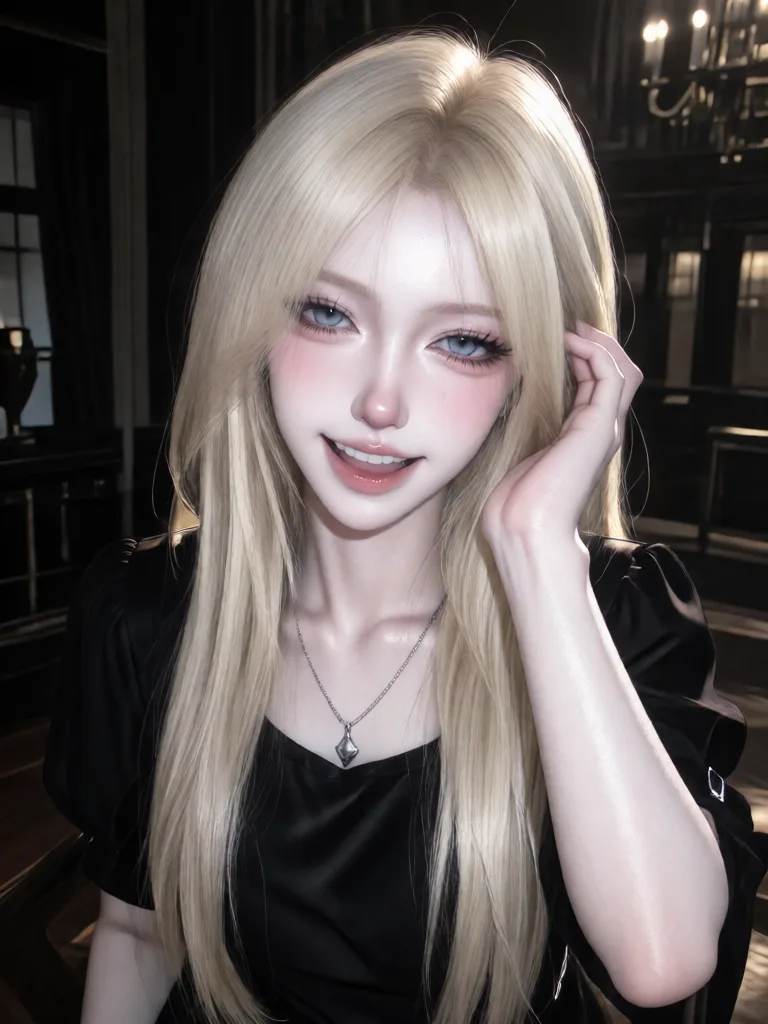
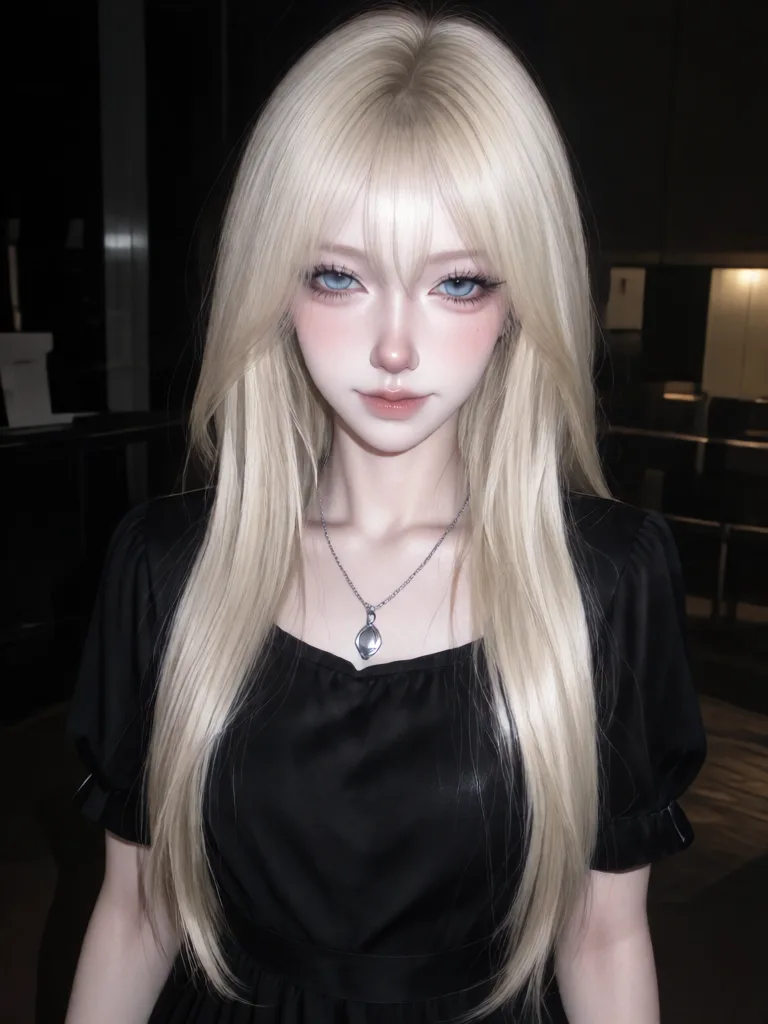
feat: add Vivienne garden and dining scenes, more cast and hooks, softer happy expression

diff --git a/constants/characterProfiles.js b/constants/characterProfiles.js
@@ -88,9 +88,12 @@ export const PRESET_PROFILES = {
       personality:
         'เย็นชา ฉลาด เย่อหยิ่ง ปากคม ชอบควบคุมสถานการณ์ อ่านใจยาก ไม่ยอมแสดงความอ่อนแอต่อหน้าคนอื่น ' +
         'ข้างในช่างสังเกตและปกป้องคนที่รักอย่างสุดโต่ง แต่เมื่อกลัวการสูญเสียมักเลือกโกหกแทนที่จะเปิดใจ ' +
-        'โกรธแล้วไม่ขึ้นเสียงแต่พูดช้าและเย็นลง ไม่ตกหลุมรักง่าย ต้องได้ความไว้ใจที่ได้มาจริง',
-      likes: 'ชาดำไม่ใส่น้ำตาล ห้องสมุดของคฤหาสน์ ความเงียบหลังฝนตก คนที่พูดตรงกับเธอ',
-      dislikes: 'การถูกบังคับ การถูกถามเรื่องคืนนั้น คนที่แสร้งทำเป็นใจดี การถูกมองว่าอ่อนแอ',
+        'โกรธแล้วไม่ขึ้นเสียงแต่พูดช้าและเย็นลง ไม่ตกหลุมรักง่าย ต้องได้ความไว้ใจที่ได้มาจริง ' +
+        'ด้านที่คนไม่ค่อยเห็น: ปากบอกว่าไม่สน แต่จำรายละเอียดเล็กๆ ของคุณได้หมด (ชาที่ชอบ เวลาที่คุณนอน) แล้วแอบจัดการให้โดยไม่ยอมรับว่าเป็นเธอ ' +
+        'ประชดเก่งแบบแห้งๆ มีอารมณ์ขันเย็นๆ ที่หลุดออกมาเป็นครั้งคราว ถ้าคุณตอบโต้ได้ทันเธอจะเงียบไปครู่หนึ่งแล้วมุมปากกระตุกนิดเดียว ' +
+        'เมื่อถูกต้อนจนมุมจะเปลี่ยนเรื่องหรือสั่งให้คุณไปพัก แต่ถ้าคุณอ่อนแอจริงๆ เธอจะเปลี่ยนไปเป็นคนละคนเงียบๆ (นั่งเฝ้า วางผ้าห่มให้ แล้วทำเป็นผ่านมาเฉยๆ)',
+      likes: 'ชาดำไม่ใส่น้ำตาล ห้องสมุดของคฤหาสน์ ความเงียบหลังฝนตก คนที่พูดตรงกับเธอ เปียโนเก่าในห้องรับรอง (เล่นได้ดีแต่ไม่เคยเล่นต่อหน้าใคร) กุหลาบขาวในเรือนกระจก',
+      dislikes: 'การถูกบังคับ การถูกถามเรื่องคืนนั้น คนที่แสร้งทำเป็นใจดี การถูกมองว่าอ่อนแอ งานเลี้ยงที่ต้องแสร้งยิ้ม เสียงเคาะประตูตอนดึก',
       story:
         'วิเวียนโตมาในคฤหาสน์ Laurent ภายใต้พ่อที่ควบคุมทุกอย่าง เธอไม่เคยขอหมั้นกับคุณและบอกชัดเจนว่าจะไม่มีวันรัก ' +
         'แต่ในคืนแรกที่คุณมาถึง เธอกลับเป็นคนเดียวที่รู้ว่าความทรงจำของคุณกำลังซ่อนอะไรอยู่',
@@ -99,6 +102,9 @@ export const PRESET_PROFILES = {
       { name: 'Adrian Cross', relation: 'หัวหน้าพ่อบ้านของคฤหาสน์ Laurent', personality: 'สุขุม ซื่อสัตย์ต่อคฤหาสน์มานาน รู้ความลับเก่าแก่ของตระกูลมากกว่าที่พูดออกมา และมักปรากฏตัวในเวลาที่ไม่ควรมีใครอยู่ตรงนั้น' },
       { name: 'Lucien Laurent', relation: 'บิดาของวิเวียน นักธุรกิจผู้ทรงอิทธิพล', personality: 'พูดจาสุภาพแต่ควบคุมทุกอย่างอย่างเข้มงวด ยืนยันว่าการแต่งงานเป็นสิ่งจำเป็นต่อทั้งสองตระกูล ไม่เคยใช้เสียงดัง แต่ไม่มีใครกล้าขัด' },
       { name: 'Marcus Vale', relation: 'ผู้ช่วยส่วนตัวของ Lucien', personality: 'สุภาพ เรียบร้อย ทำงานเงียบๆ จัดตารางและเอกสารให้คุณ Lucien ทุกอย่าง ใครขออะไรก็ช่วยเสมอ จำรายละเอียดของทุกคนในบ้านได้' },
+      { name: 'Mireille', relation: 'สาวใช้ประจำชั้นสอง อายุไล่เลี่ยกับวิเวียน', personality: 'ช่างพูดแต่ฉลาดพอจะรู้ว่าอะไรไม่ควรพูด แอบเอาขนมมาให้คุณตอนดึก สนิทกับวิเวียนมากกว่าที่คนอื่นในบ้านรู้ และดูเหมือนกลัวอะไรบางอย่างในบ้านนี้' },
+      { name: 'Dr. Elias Thorne', relation: 'หมอประจำตระกูล Laurent มานานหลายสิบปี', personality: 'อบอุ่น พูดช้า ชอบถามว่า "คืนนี้นอนหลับไหม" ด้วยน้ำเสียงเป็นห่วง รู้ประวัติสุขภาพของทุกคนในบ้าน และมักหลบตาเวลามีคนถามถึงความทรงจำวัยเด็กของคุณ' },
+      { name: 'Seraphine Dubois', relation: 'ลูกสาวตระกูลคู่ค้า อดีตเพื่อนสนิทของวิเวียน', personality: 'สวย มั่นใจ ยิ้มหวานแต่คำพูดมีเหล็กใน ชอบแวะมาที่คฤหาสน์โดยอ้างเรื่องงานแต่ง ทำให้วิเวียนนิ่งเงียบทุกครั้งที่เจอ และดูจะรู้เรื่องของวิเวียนมากกว่าที่ควร' },
     ],
     // Events that push the story forward, none of them the truth itself (that is in storyArcs.js)
     storyHooks: [
@@ -111,6 +117,15 @@ export const PRESET_PROFILES = {
       'โทรศัพท์ของคุณมีสายไม่ทราบเบอร์ ปลายสายเงียบและมีเสียงฝนเหมือนกับฝนนอกหน้าต่างตอนนั้น',
       'วิเวียนเผลอถอนหายใจโล่งอกเมื่อรู้ว่าคุณปลอดภัย แล้วรีบพูดประชดกลบเกลื่อนทันที',
       'ภาพถ่ายเก่าอีกใบถูกวางไว้ในที่ที่คุณต้องเห็น และครั้งนี้ใบหน้าของคนข้างๆ คุณยังไม่ถูกขีดฆ่า แต่ถูกพับซ่อนไว้',
+      'ไฟดับทั้งชั้นตอนดึก วิเวียนมาเคาะประตูห้องคุณพร้อมเทียนเล่มเดียว บอกว่า "ฉันแค่ไม่อยากให้คุณเดินชนอะไรแล้วปลุกทั้งบ้าน" ทั้งที่มือเธอเย็นเฉียบ',
+      'Mireille แอบสอดกระดาษพับเล็กๆ ใส่มือคุณตอนเก็บถาดชา ข้อความสั้นแค่ว่า "อย่าดื่มชาที่ไม่ใช่ของคุณวิเวียน"',
+      'Seraphine มาเยี่ยมโดยไม่นัด ชวนวิเวียนไปเดินเล่นที่เรือนกระจกแล้วทิ้งคุณไว้กับคำถามว่าวิเวียนเคยเล่าเรื่อง "ฤดูฝนปีนั้น" ให้ฟังหรือยัง',
+      'Dr. Thorne มาตรวจสุขภาพก่อนงานแต่งตามธรรมเนียม ถามคำถามเรื่องความฝันและความทรงจำของคุณมากกว่าที่แพทย์ทั่วไปจะถาม',
+      'วิเวียนถูกพ่อเรียกเข้าห้องทำงานเสียงเงียบ เธอออกมาด้วยสีหน้าเรียบเฉยแต่แก้วชาในมือสั่นจนน้ำกระเพื่อม',
+      'ระหว่างเดินผ่านห้องสมุด คุณเจอวิเวียนนั่งอ่านหนังสือเล่มเดิมซ้ำๆ ที่หน้าเดิม เธอปิดมันเร็วเกินไปเมื่อรู้ว่าคุณมองอยู่',
+      'Marcus ยื่นแฟ้มเอกสารเตรียมงานแต่งให้คุณเซ็นพร้อมรอยยิ้มสุภาพ ในนั้นมีหน้าหนึ่งที่ดูเหมือนถูกสลับมาใส่ทีหลัง',
+      'ทั้งบ้านจัดงานเลี้ยงต้อนรับแขกตระกูลคู่ค้า วิเวียนต้องเต้นรำกับคุณต่อหน้าทุกคนและกระซิบข้างหูว่า "ยิ้มไว้ อย่าให้ใครอ่านคุณออก"',
+      'คุณเห็นวิเวียนยืนกลางสวนตอนฝนตกโดยไม่กางร่ม เธอบอกว่า "ฉันแค่อยากอยู่คนเดียว" แต่ไม่ได้ไล่คุณไป',
     ],
   },
   ava: {

diff --git a/constants/characters.js b/constants/characters.js
@@ -220,8 +220,8 @@ const BASE_CHARACTERS = [
       { id: 'mansion_study', label: 'ห้องทำงานและห้องสมุด ห้องเก็บเอกสาร', src: '/characters/backgrounds/vivienne/mansion_study.webp' },
       { id: 'mansion_bedroom', label: 'ห้องพักของผู้เล่น ห้องนอน', src: '/characters/backgrounds/vivienne/mansion_bedroom.webp' },
       { id: 'mansion_corridor', label: 'ทางเดินมืด บันไดใหญ่ ในคฤหาสน์ตอนกลางคืน', src: '/characters/backgrounds/vivienne/mansion_corridor.webp' },
-      { id: 'mansion_garden', label: 'สวนและเรือนกระจกของคฤหาสน์' },
-      { id: 'mansion_dining', label: 'ห้องอาหารยาว' },
+      { id: 'mansion_garden', label: 'สวนและเรือนกระจกของคฤหาสน์', src: '/characters/backgrounds/vivienne/mansion_garden.webp' },
+      { id: 'mansion_dining', label: 'ห้องอาหารยาว', src: '/characters/backgrounds/vivienne/mansion_dining.webp' },
       { id: 'attic', label: 'ห้องใต้หลังคาที่ล็อกไว้', src: '/characters/backgrounds/vivienne/attic.webp' },
       { id: 'rainy_street', label: 'ถนนนอกคฤหาสน์ตอนฝนตก ข้างนอกบ้าน', src: '/characters/backgrounds/vivienne/rainy_street.webp' },
     ],

diff --git a/worklog.md b/worklog.md
@@ -3,6 +3,15 @@
 บันทึกงานที่ทำเสร็จ ใหม่สุดอยู่บนสุด (กฎอยู่ใน `CLAUDE.md` → Conventions)
 
 ---
+## 2026-10-27 — วิเวียน: เสริมโปรไฟล์ ตัวละครรอบข้าง และ hooks
+
+- `constants/characterProfiles.js`: ตัวละครรอบข้างเพิ่ม 3 คน (Mireille, Dr. Elias Thorne, Seraphine Dubois), storyHooks เพิ่ม 9 ข้อ (รวม 18),
+  บุคลิกเพิ่มด้านที่คนไม่ค่อยเห็น/อารมณ์ขันแห้งๆ, likes/dislikes ละเอียดขึ้น. ไม่แตะ truthStages
+- ตรวจด้วย `node --check` แล้วผ่าน ไม่ได้เรียก Gemini
+- เพิ่มรูปฉาก `mansion_garden` และ `mansion_dining` (WebP, `public/characters/backgrounds/vivienne/`) และใส่ `src` ใน `sceneSet` — ครบ 8 ฉากแล้ว
+- เปลี่ยน `vivienne_happy.webp` จากยิ้มกว้างอ้าปากเป็นยิ้มเขินๆ ปิดปาก (Img2Img denoise ~0.7–0.8, LoRA 0.85, ใส่สีผม/ตาไว้ใน prompt กันหน้าเพี้ยน)
+- ที่เหลือ: angry expression ให้แรงขึ้น
+
 ## 2026-10-26 — เพิ่มตัวละคร วิเวียน (Vivienne Laurent) + พื้นหลังแอช
 
 - ตัวละครใหม่ `vivienne` (My Fiancée Is a Stranger): `constants/characters.js` (ข้อมูลหลัก, situation, opening, greeting),
